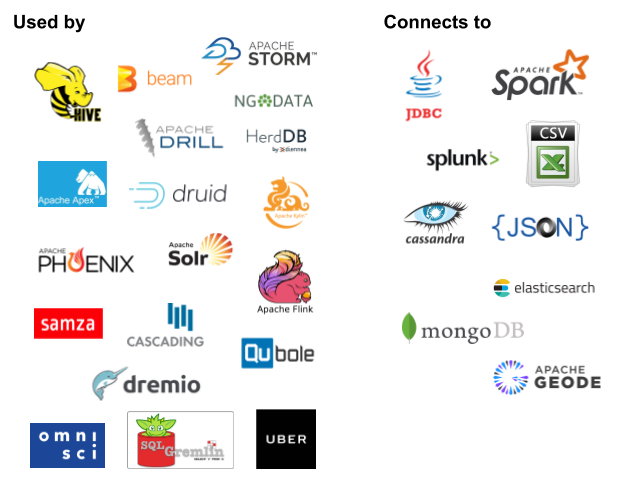
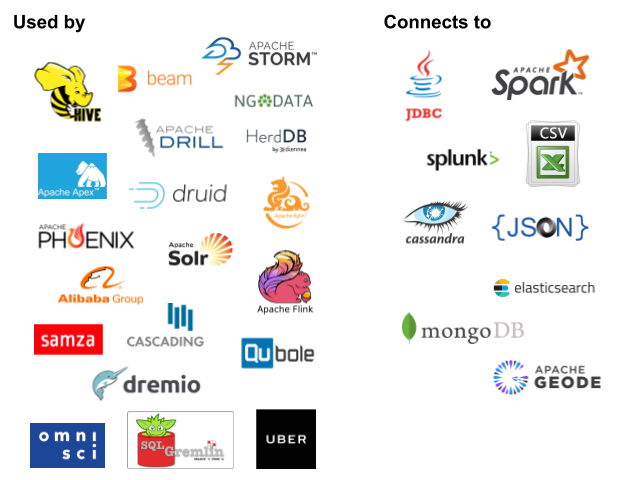
Site: Add Alibaba MaxCompute to powered-by page
Close apache/calcite#1113

Changed region(s): [[0.0306, 0.4688, 0.2452, 0.75], [0.0613, 0.3125, 0.1839, 0.4375]]

diff --git a/site/_docs/powered_by.md b/site/_docs/powered_by.md
@@ -39,6 +39,13 @@ on your site.
 
 ![Powered By]({{ site.baseurl }}/img/pb-calcite-240.png)
 
+### Alibaba MaxCompute
+
+<a href="https://www.alibabacloud.com">Alibaba</a>'s
+<a href="https://www.alibabacloud.com/product/maxcompute">MaxCompute</a>
+big data computing and storage platform
+uses Calcite for cost-based query optimization.
+
 ### Apache Apex
 
 <a href="https://apex.apache.org">Apache Apex</a>
